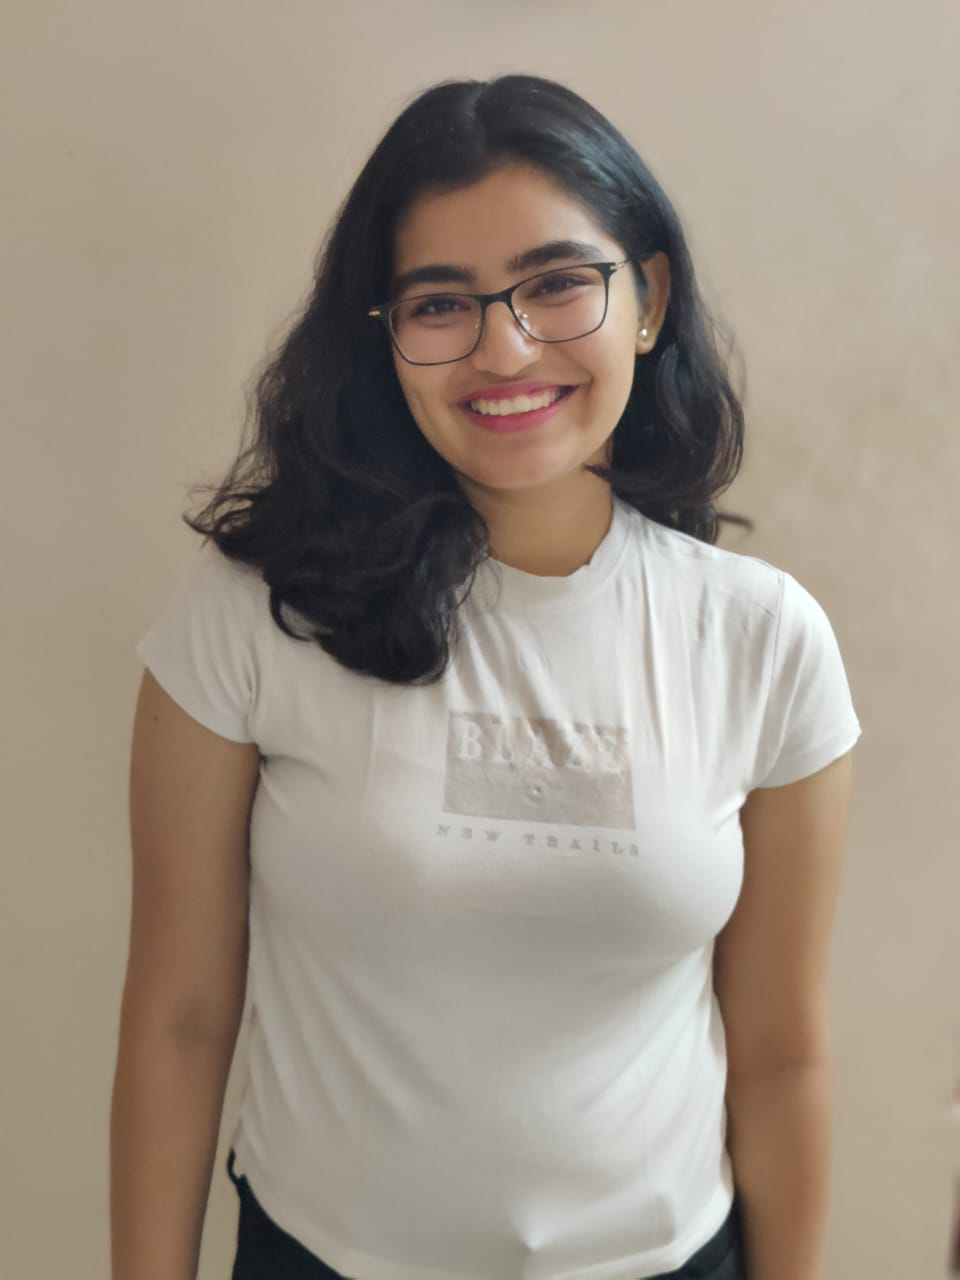
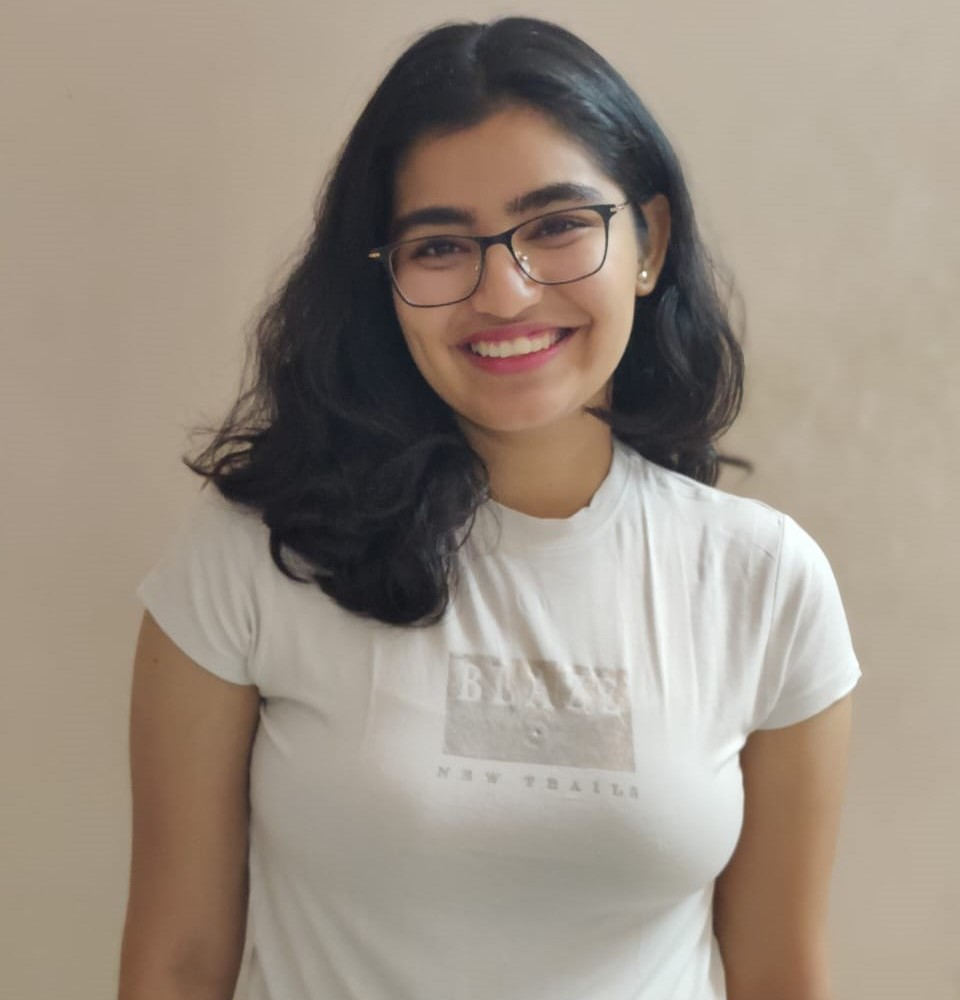
Added content

diff --git a/src/lib/constants.ts b/src/lib/constants.ts
@@ -15,7 +15,7 @@ import sharad from "./img/Members/SHARAD.jpg";
 import aditiContent from "./img/Members/ADITI Content.jpg";
 import vatsal from "./img/Members/VATSAL.jpg";
 import pushpendra from "./img/Members/PUSHPENDRA.jpg";
-import sivia from "./img/Members/SIVIA.webp";
+import sivia from "./img/Members/SIVIA.jpeg";
 import aditya from "./img/Members/ADITYA.jpg";
 import devarsh from "./img/Members/devarsh.jpg";
 
@@ -98,6 +98,8 @@ export interface Team {
   objectPosition?: string;
   objectEffect?: "fill" | "contain" | "cover" | "none" | "scale-down";
   scale?: number;
+  translateY?: number;
+  translateX?: number;
 }
 
 export const team: Team[] = [
@@ -106,7 +108,6 @@ export const team: Team[] = [
     position: "President",
     name: "Sivia Anzal",
     exec: true,
-    objectPosition: "center",
   },
   {
     img: pulashya,
@@ -144,7 +145,6 @@ export const team: Team[] = [
     img: aditya,
     position: "Technical Team",
     name: "Aditya Kharmitkar",
-    // objectPosition: "center",
     scale: 1.1,
   },
   {
@@ -162,7 +162,7 @@ export const team: Team[] = [
     img: sarthak,
     position: "Media and photography Team",
     name: "Sarthak",
-    objectPosition: "center",
+    objectEffect: "fill",
   },
   {
     img: pushpendra,
@@ -178,7 +178,7 @@ export const team: Team[] = [
     img: aditiContent,
     position: "Content Team",
     name: "Aditi Bathla",
-    // objectEffect: "fill",
     objectPosition: "top",
+    scale: 1,
   },
 ];

diff --git a/src/components/card/team.tsx b/src/components/card/team.tsx
@@ -6,16 +6,21 @@ export interface Team {
   img: StaticImageData;
   position: string;
   name: string;
-  exec: boolean;
+  exec?: boolean;
   objectPosition?: string;
   objectEffect?: "fill" | "contain" | "cover" | "none" | "scale-down";
   scale?: number;
+  translateY?: number;
+  translateX?: number;
 }
 interface Props {
   person: Team;
 }
 
 const TeamCard = ({ person }: Props) => {
+  const scaleValue = person.scale || 1;
+  const translateYValue = person.translateY || 0;
+  const translateXValue = person.translateX || 0;
   return (
     <div className="space-y-2">
       <div
@@ -25,7 +30,6 @@ const TeamCard = ({ person }: Props) => {
           overflow: "hidden",
         }}
       >
-        {" "}
         <Image
           src={person.img}
           alt={person.name}
@@ -33,7 +37,7 @@ const TeamCard = ({ person }: Props) => {
           style={{
             objectFit: person.objectEffect || "cover",
             objectPosition: person.objectPosition || "center top",
-            transform: `scale(${person.scale || 1})`,
+            transform: `scale(${scaleValue}) translate(${translateXValue}%, ${translateYValue}%)`,
           }}
         />
       </div>
